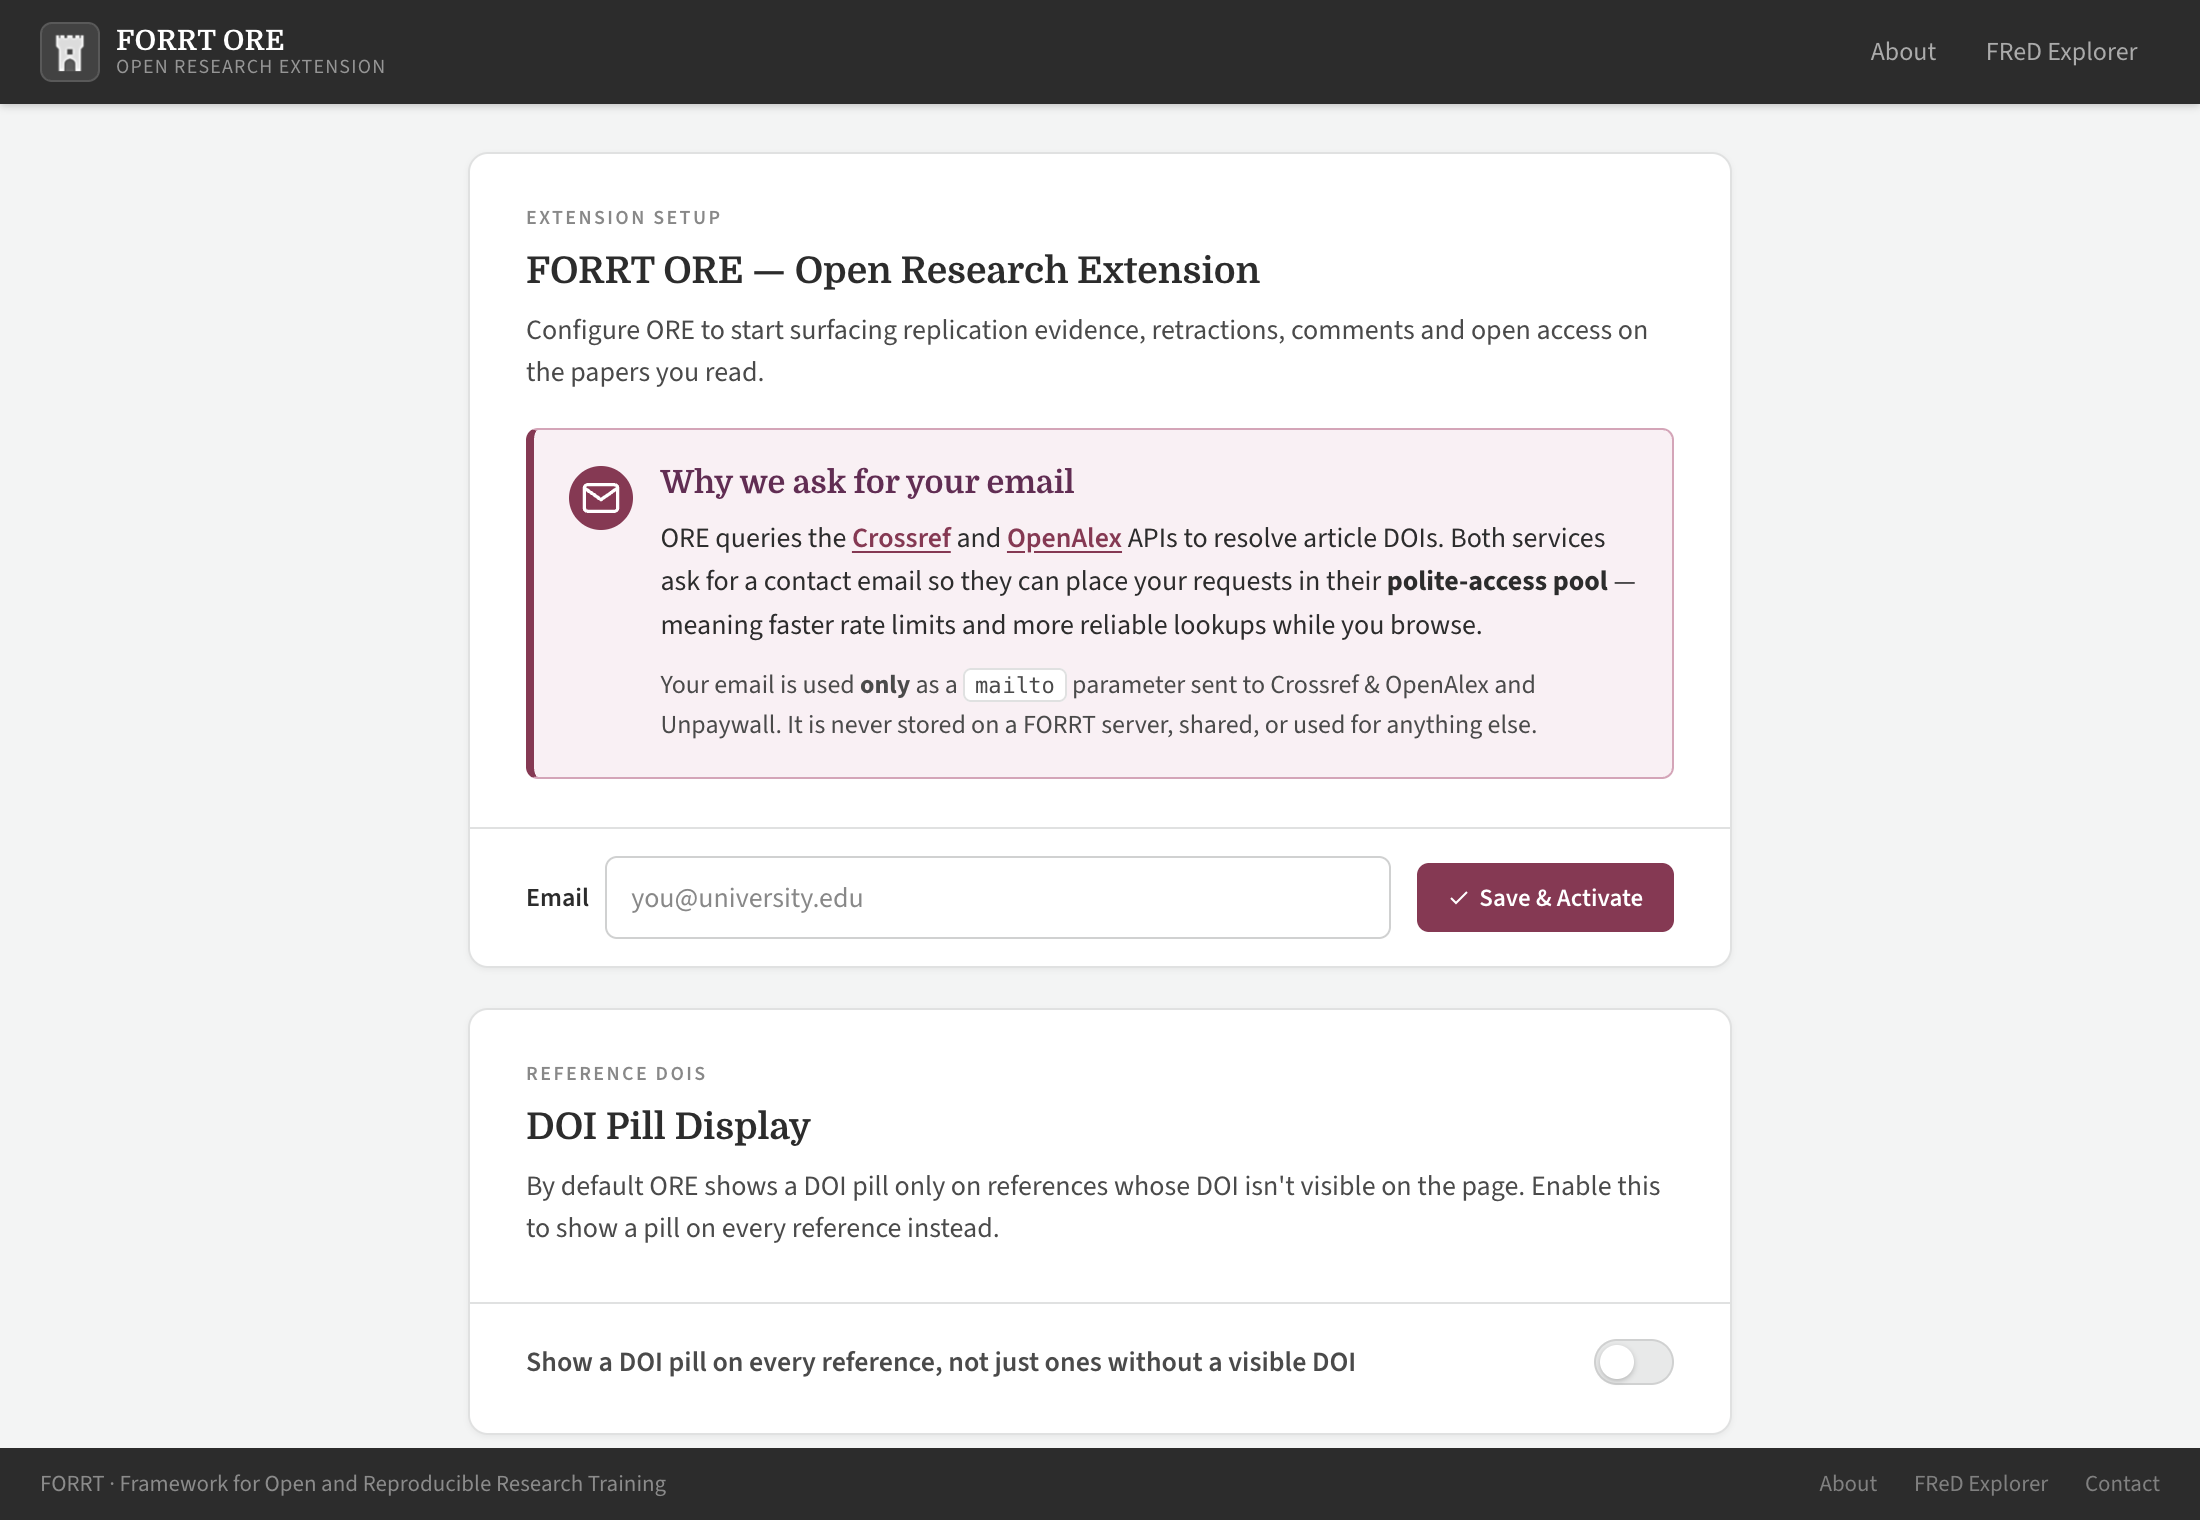
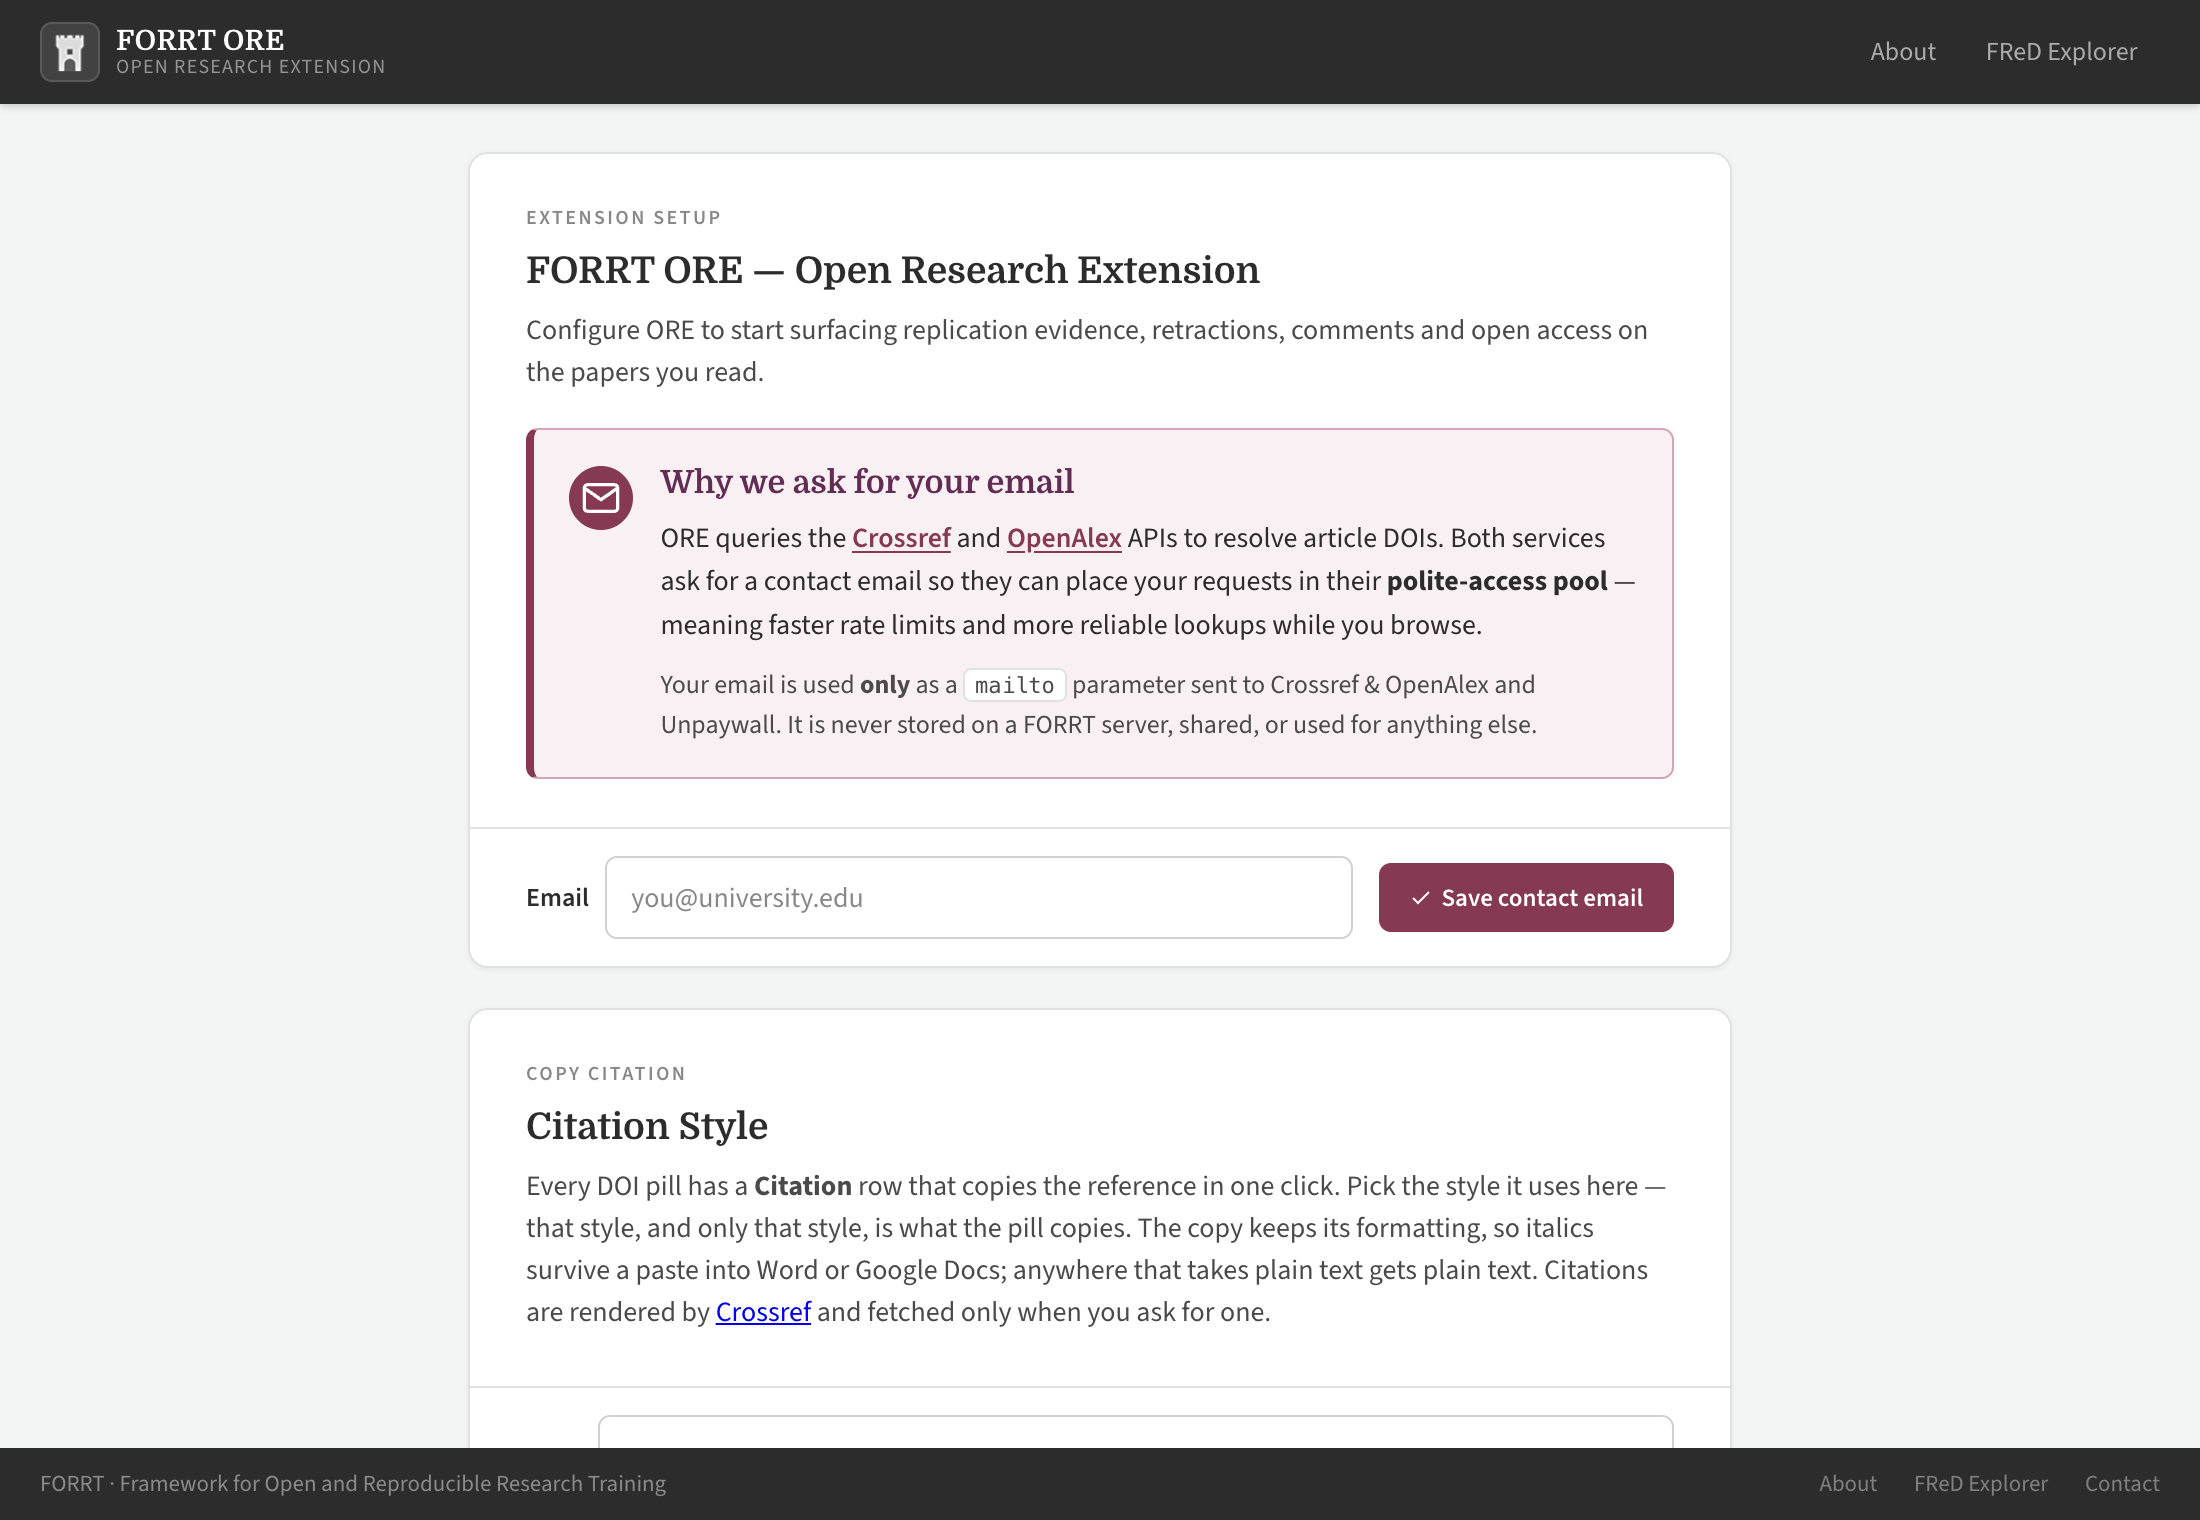
Coderabbit suggested fixes

Changed region(s): [[0.2473, 0.6803, 0.7418, 0.9276], [0.6182, 0.5566, 0.7418, 0.6184], [0.7109, 0.8967, 0.7727, 0.9276]]

diff --git a/tests/unit/reference-placement.test.ts b/tests/unit/reference-placement.test.ts
@@ -57,7 +57,7 @@ describe("reference pill placement (integration)", () => {
 
       const entry = entriesFromDocument()[0];
       const resolved: ResolvedReference[] = [
-        { entry: { element: entry, doi: "10.1/a" as DoiString, text: "ref" }, doi: "10.1/a" as DoiString, mode: "page" },
+        { entry: { element: entry, doi: "10.1/a" as DoiString, pmcid: null, text: "ref" }, doi: "10.1/a" as DoiString, mode: "page" },
       ];
 
       renderResolvedReferences(resolved, new Map(), new Map());
@@ -75,7 +75,7 @@ describe("reference pill placement (integration)", () => {
 
     const entry = entriesFromDocument()[0];
     const resolved: ResolvedReference[] = [
-      { entry: { element: entry, doi: "10.1/a" as DoiString, text: "ref" }, doi: "10.1/a" as DoiString, mode: "page" },
+      { entry: { element: entry, doi: "10.1/a" as DoiString, pmcid: null, text: "ref" }, doi: "10.1/a" as DoiString, mode: "page" },
     ];
 
     renderResolvedReferences(resolved, new Map(), new Map());
@@ -102,7 +102,7 @@ describe("reference pill placement (integration)", () => {
     }
 
     const resolved: ResolvedReference[] = [
-      { entry: { element: entry, doi: "10.1/a" as DoiString, text: "ref" }, doi: "10.1/a" as DoiString, mode: "page" },
+      { entry: { element: entry, doi: "10.1/a" as DoiString, pmcid: null, text: "ref" }, doi: "10.1/a" as DoiString, mode: "page" },
     ];
 
     renderResolvedReferences(resolved, new Map(), new Map());

diff --git a/tests/unit/github-issue-autofill.test.ts b/tests/unit/github-issue-autofill.test.ts
@@ -198,6 +198,8 @@ describe("GitHub issue autofill", () => {
 
     await import("../../src/content-github/index");
     await advanceUntil(() => (document.querySelector("textarea")?.value ?? "").includes(REPORT));
+    expect(document.querySelector("textarea")!.value).toContain(REPORT);
+
     document.body.innerHTML = "";
     await vi.advanceTimersByTimeAsync(12_000);
 

diff --git a/docs/index.html b/docs/index.html
@@ -263,7 +263,7 @@
             <figure class="shot">
               <img
                 src="img/settings.png"
-                alt="The settings page showing the email setup card and DOI pill display options"
+                alt="The settings page showing the email setup card and citation style options"
               />
             </figure>
           </div>
